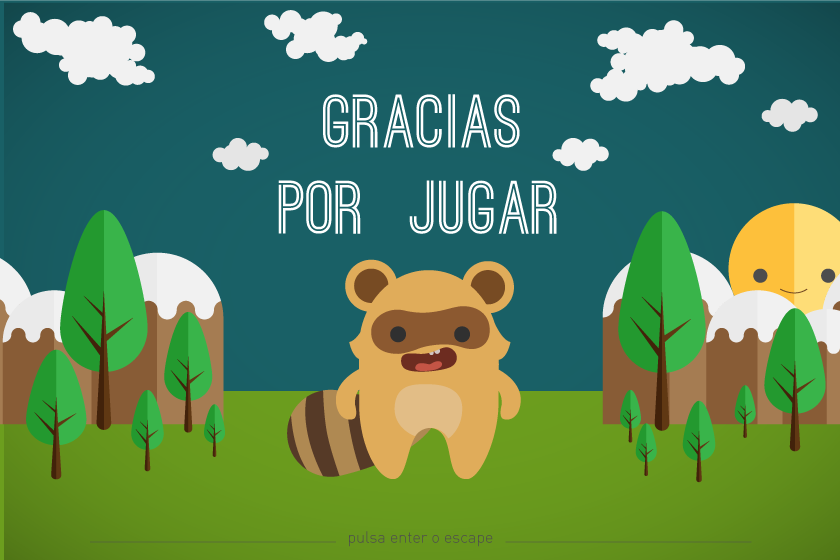
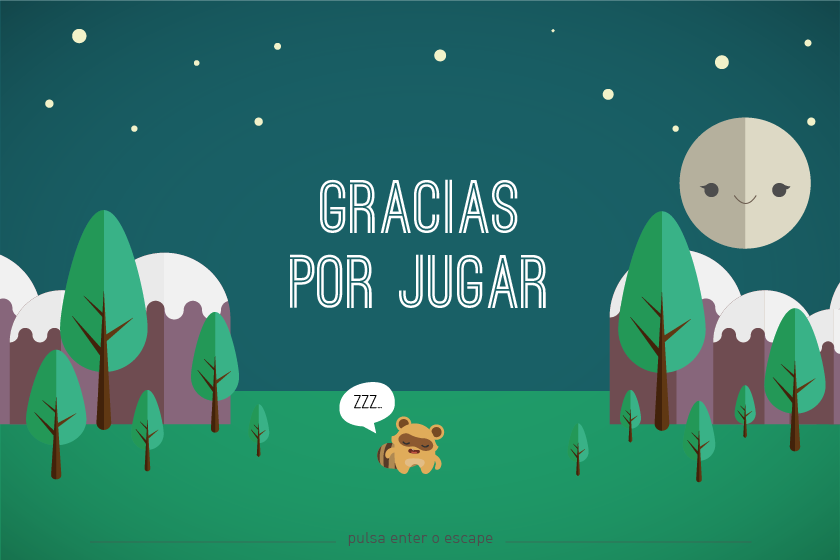
Fixes y nuevo background

diff --git a/Videogame/src/game/Game.java b/Videogame/src/game/Game.java
@@ -49,7 +49,10 @@ public class Game extends StateBasedGame
         addState(new Menu());
         addState(new LevelState("Nivel_0",1,13));
         addState(new LevelState("Nivel_1",2,41));
-        addState(new LevelState("Nivel_3",3,23));                
+        addState(new LevelState("Nivel_2",3,23));                
+        addState(new LevelState("Nivel_3",3,14));                
+        addState(new LevelState("Nivel_4",4,13));                
+        addState(new LevelState("Nivel_5",5,13));                
         addState(new ClosingMenu());
         this.enterState(0);
 

diff --git a/Videogame/src/game/menu/ClosingMenu.java b/Videogame/src/game/menu/ClosingMenu.java
@@ -42,7 +42,7 @@ public class ClosingMenu extends BasicGameState
     @Override
     public int getID() 
     {
-        return 4;
+        return 7;
     } 
     
     public void keyReleased(int key, char c) 

diff --git a/Videogame/src/game/physics/Physics.java b/Videogame/src/game/physics/Physics.java
@@ -192,5 +192,4 @@ public class Physics
             handleGameObject(obj, level, delta);
         }
     }    
-    
 }
